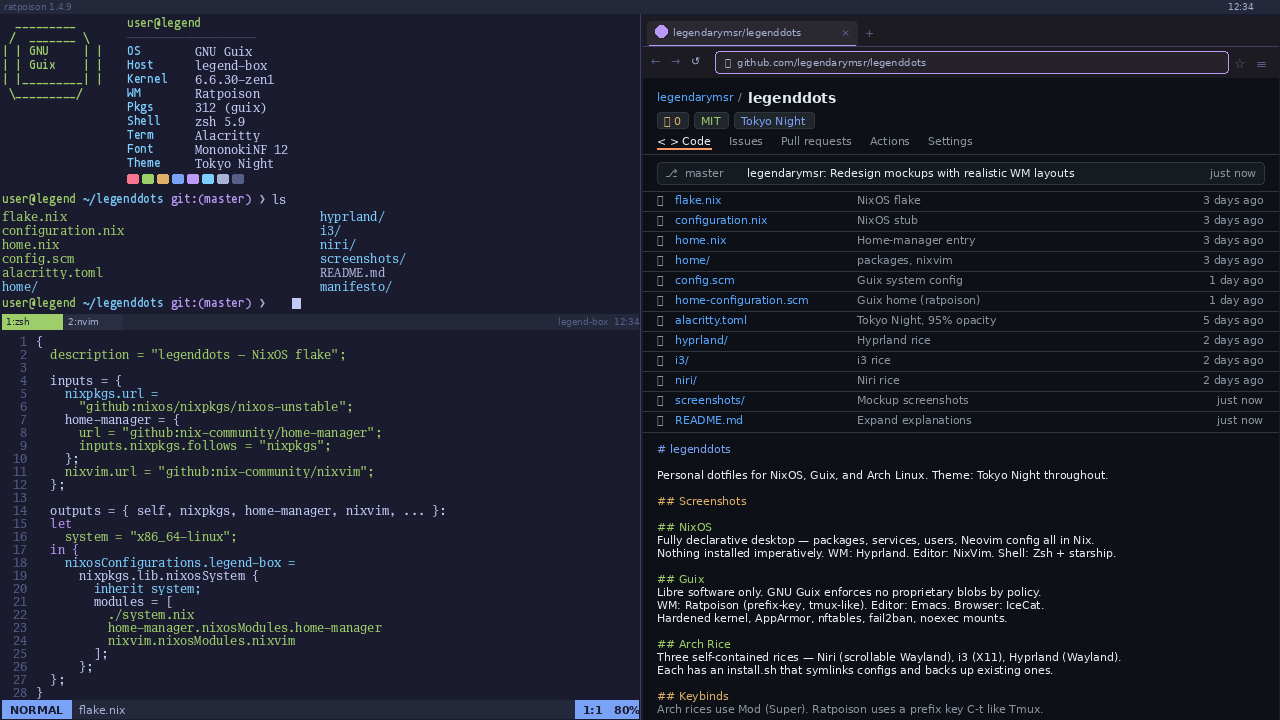
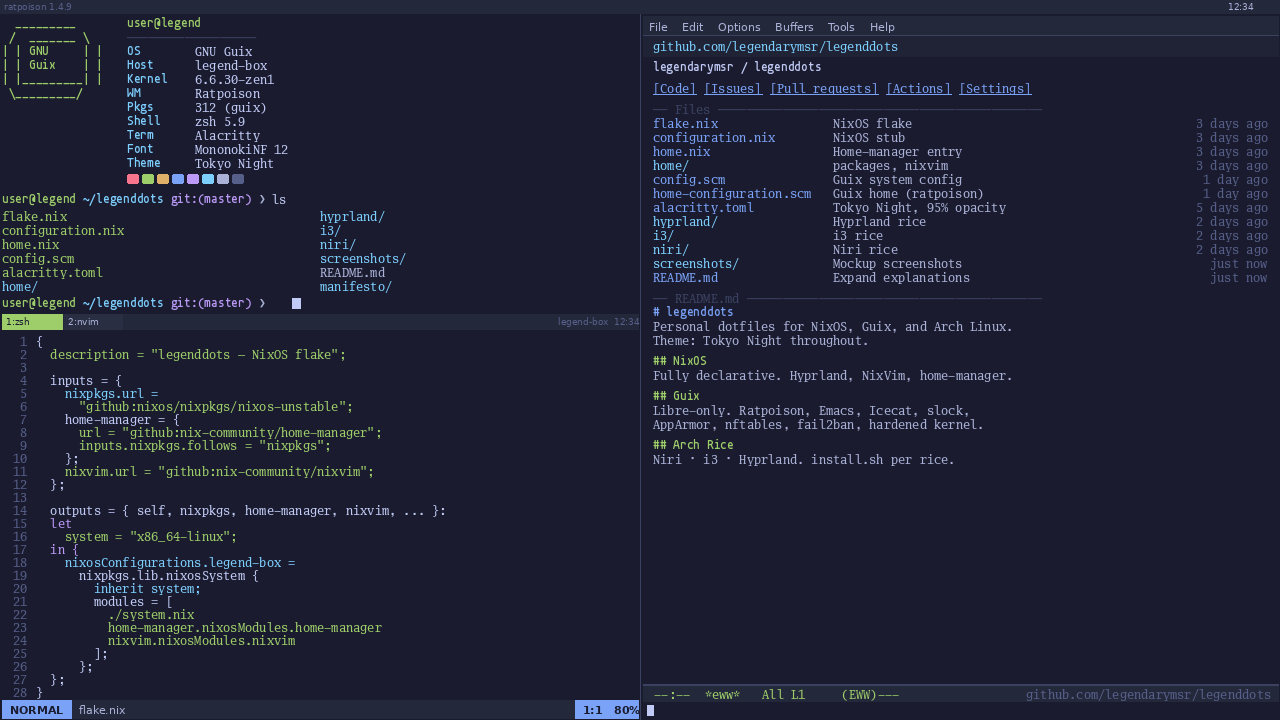
Guix mockup: replace IceCat with Emacs EWW (text-mode browser)

diff --git a/screenshots/gen.py b/screenshots/gen.py
@@ -532,6 +532,129 @@ def draw_icecat(d, fn, x, y, w, h):
     return x, y, w, h - TB_H - TOOL_H
 
 # ══════════════════════════════════════════════════════════════════════════
+# Emacs EWW (text-mode web browser inside Emacs)
+# ══════════════════════════════════════════════════════════════════════════
+def draw_emacs_eww(d, fn, x, y, w, h):
+    """Emacs frame: menu bar → EWW buffer → modeline → minibuffer."""
+    d.rectangle([x, y, x+w, y+h], fill=rgb(BG))
+
+    # ── menu bar (20px) ───────────────────────────────────────────────────
+    MENU_H = 20
+    d.rectangle([x, y, x+w, y+MENU_H], fill=rgb(BG3))
+    d.line([x, y+MENU_H-1, x+w, y+MENU_H-1], fill=rgb(BORDER))
+    menu_items = ["File", "Edit", "Options", "Buffers", "Tools", "Help"]
+    mx = x + 6
+    for item in menu_items:
+        d.text((mx, y+4), item, font=fn["bar"], fill=rgb(FG2))
+        mx += tw(d, item, fn["bar"]) + 14
+
+    y += MENU_H
+
+    # ── EWW buffer content ────────────────────────────────────────────────
+    MODELINE_H = 18
+    MINIBUF_H  = 16
+    content_h  = h - MENU_H - MODELINE_H - MINIBUF_H
+    py = y + 8
+    px = x + 10
+    lh = 14
+
+    def eline(text, col=FG2, bold=False, indent=0):
+        nonlocal py
+        if py + lh > y + content_h:
+            return
+        f = fn["mono_b"] if bold else fn["mono_r"]
+        d.text((px + indent, py), text, font=f, fill=rgb(col))
+        py += lh
+
+    def egap():
+        nonlocal py
+        py += lh // 2
+
+    # EWW top: URL bar as a header line
+    d.rectangle([x, y, x+w, y+lh+6], fill=rgb(BG2))
+    d.text((px, y+3), "github.com/legendarymsr/legenddots",
+           font=fn["mono_r"], fill=rgb(CYAN))
+    py = y + lh + 10
+
+    # page title
+    eline("legendarymsr / legenddots", FG, bold=True)
+    egap()
+
+    # nav links (EWW renders links underlined, shown in accent colour)
+    nav_items = ["[Code]", "[Issues]", "[Pull requests]", "[Actions]", "[Settings]"]
+    nav_x = px
+    for item in nav_items:
+        if nav_x + tw(d, item, fn["mono_r"]) > x+w-10:
+            break
+        d.text((nav_x, py), item, font=fn["mono_r"], fill=rgb(ACCENT))
+        iw = tw(d, item, fn["mono_r"])
+        d.line([nav_x, py+lh-1, nav_x+iw, py+lh-1], fill=rgb(ACCENT))
+        nav_x += iw + 8
+    py += lh
+    egap()
+
+    # file list (EWW plain-text table)
+    eline("── Files ─────────────────────────────────────────────", BORDER)
+    for name, desc, age in [
+        ("flake.nix",              "NixOS flake",             "3 days ago"),
+        ("configuration.nix",      "NixOS stub",              "3 days ago"),
+        ("home.nix",               "Home-manager entry",      "3 days ago"),
+        ("home/",                  "packages, nixvim",        "3 days ago"),
+        ("config.scm",             "Guix system config",      "1 day ago"),
+        ("home-configuration.scm", "Guix home (ratpoison)",   "1 day ago"),
+        ("alacritty.toml",         "Tokyo Night, 95% opacity","5 days ago"),
+        ("hyprland/",              "Hyprland rice",           "2 days ago"),
+        ("i3/",                    "i3 rice",                 "2 days ago"),
+        ("niri/",                  "Niri rice",               "2 days ago"),
+        ("screenshots/",           "Mockup screenshots",      "just now"),
+        ("README.md",              "Expand explanations",     "just now"),
+    ]:
+        if py + lh > y + content_h - lh*6:
+            break
+        col = CYAN if name.endswith("/") else ACCENT
+        d.text((px,        py), name, font=fn["mono_r"], fill=rgb(col))
+        d.text((px+180,    py), desc, font=fn["mono_r"], fill=rgb(FG2))
+        aw = tw(d, age, fn["mono_r"])
+        d.text((x+w-aw-10, py), age,  font=fn["mono_r"], fill=rgb(DIM))
+        py += lh
+    egap()
+
+    eline("── README.md ─────────────────────────────────────────", BORDER)
+    eline("# legenddots", ACCENT, bold=True)
+    eline("Personal dotfiles for NixOS, Guix, and Arch Linux.")
+    eline("Theme: Tokyo Night throughout.")
+    egap()
+    eline("## NixOS", GREEN, bold=True)
+    eline("Fully declarative. Hyprland, NixVim, home-manager.")
+    egap()
+    eline("## Guix", GREEN, bold=True)
+    eline("Libre-only. Ratpoison, Emacs, Icecat, slock,")
+    eline("AppArmor, nftables, fail2ban, hardened kernel.")
+    egap()
+    eline("## Arch Rice", GREEN, bold=True)
+    eline("Niri · i3 · Hyprland. install.sh per rice.")
+
+    # ── modeline ──────────────────────────────────────────────────────────
+    ml_y = y + content_h
+    d.rectangle([x, ml_y, x+w, ml_y+MODELINE_H], fill=rgb(BG3))
+    d.rectangle([x, ml_y, x+w, ml_y+1], fill=rgb(BORDER))
+    # left: mode indicators
+    ml_left = " --:--  *eww*   All L1     (EWW)---"
+    d.text((x+4, ml_y+3), ml_left, font=fn["mono_r"], fill=rgb(GREEN))
+    # right: url
+    ml_right = "github.com/legendarymsr/legenddots "
+    rw = tw(d, ml_right, fn["mono_r"])
+    d.text((x+w-rw, ml_y+3), ml_right, font=fn["mono_r"], fill=rgb(DIM))
+
+    # ── minibuffer ────────────────────────────────────────────────────────
+    mb_y = ml_y + MODELINE_H
+    d.rectangle([x, mb_y, x+w, mb_y+MINIBUF_H], fill=rgb(BG))
+    # blinking cursor in minibuffer
+    d.rectangle([x+4, mb_y+3, x+10, mb_y+MINIBUF_H-3], fill=rgb(FG))
+
+    return x, y, w, content_h
+
+# ══════════════════════════════════════════════════════════════════════════
 # GitHub dark page
 # ══════════════════════════════════════════════════════════════════════════
 FILES = [
@@ -781,10 +904,9 @@ def gen_ratpoison(outpath, os_name, pkgs):
     # 1px divider
     d.line([split, bar_h, split, H], fill=rgb(BORDER))
 
-    # right — icecat (no window frame, just browser chrome directly)
+    # right — emacs eww (no window frame, just emacs directly)
     rx, ry, rw, rh = ratpoison_window(d, split+1, bar_h, W-split-1, H-bar_h)
-    pcx, pcy, pcw, pch = draw_icecat(d, fn, rx, ry, rw, rh)
-    draw_github(d, fn, pcx, pcy, pcw, pch)
+    draw_emacs_eww(d, fn, rx, ry, rw, rh)
 
     img.save(outpath)
     print(f"  {outpath}")